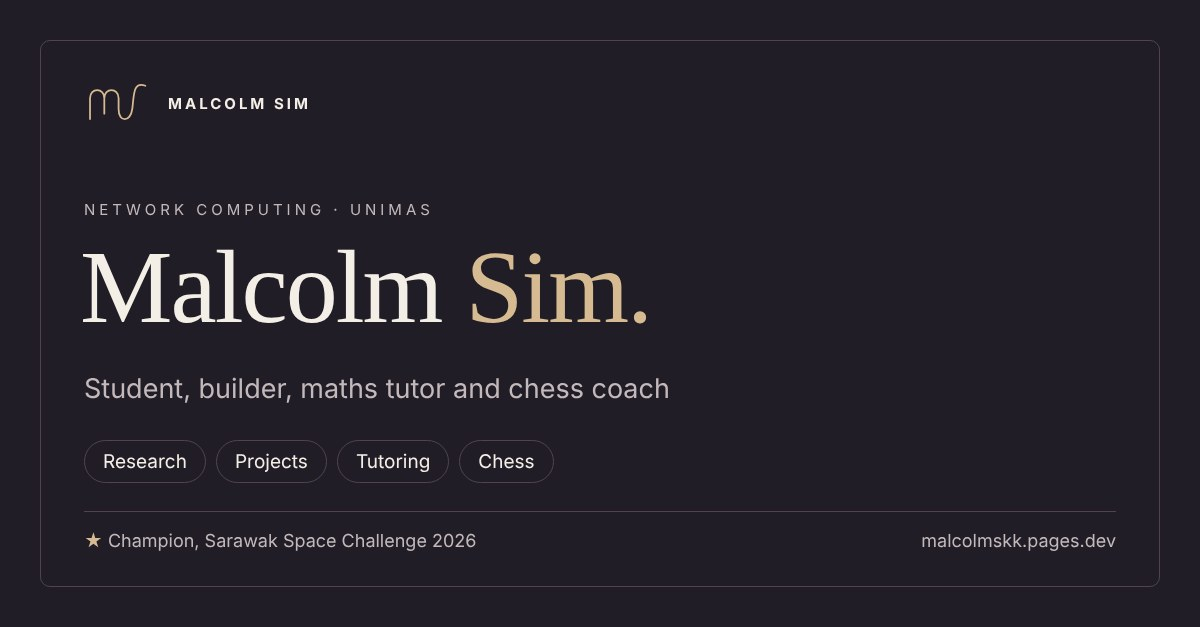
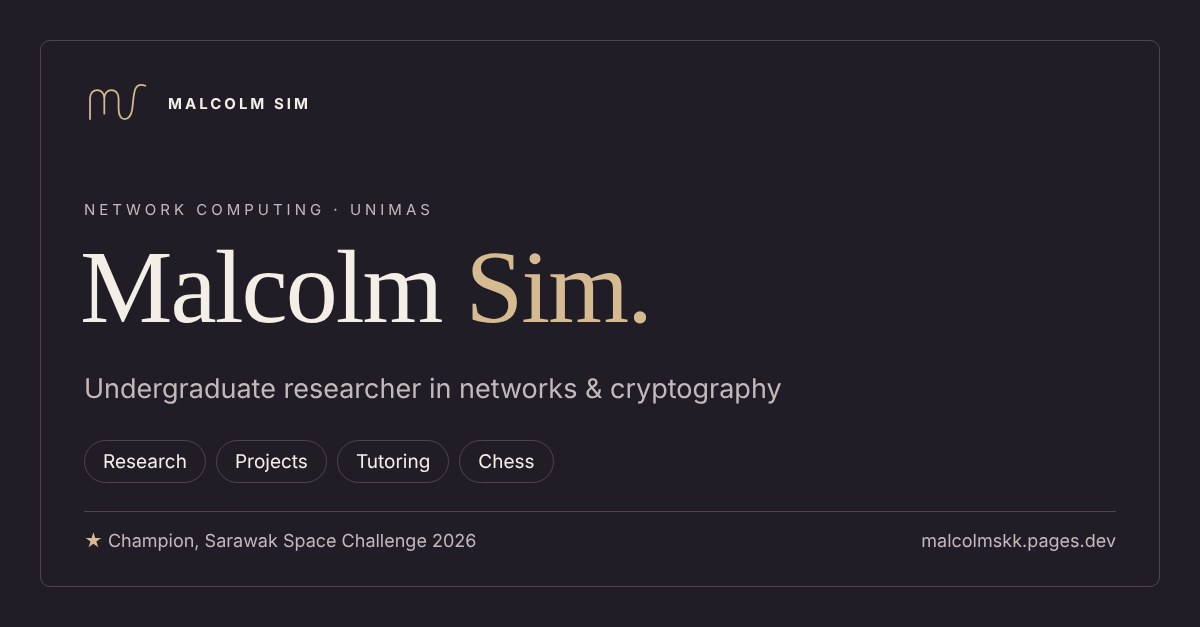
Lead the homepage and link preview with research
Claude-Session: https://claude.ai/code/session_01GhmkvKUT4ZwRjJgh54pBoB

Changed region(s): [[0.0617, 0.6061, 0.6475, 0.6364]]

diff --git a/index.html b/index.html
@@ -1,30 +1,30 @@
-<!doctype html><html lang="en"><head><meta charset="UTF-8"><meta name="viewport" content="width=device-width,initial-scale=1"><meta name="color-scheme" content="light dark"><script src="theme.js"></script><link rel="icon" href="malcolm-logo.svg?v=silk-champagne" type="image/svg+xml"><title>Malcolm Sim — Network Computing, mathematics &amp; chess</title><meta name="description" content="Malcolm Sim, Network Computing student at UNIMAS. Research interests in networks and cryptography, hackathon projects, maths tutoring and chess coaching.">
+<!doctype html><html lang="en"><head><meta charset="UTF-8"><meta name="viewport" content="width=device-width,initial-scale=1"><meta name="color-scheme" content="light dark"><script src="theme.js"></script><link rel="icon" href="malcolm-logo.svg?v=silk-champagne" type="image/svg+xml"><title>Malcolm Sim — Network Computing research, projects &amp; teaching</title><meta name="description" content="Malcolm Sim, Network Computing student and undergraduate researcher at UNIMAS. Research interests in wireless networks and cryptography, hackathon projects, maths tutoring and chess coaching.">
   <link rel="canonical" href="https://malcolmskk.pages.dev/">
   <meta property="og:type" content="website">
   <meta property="og:site_name" content="Malcolm Sim">
-  <meta property="og:title" content="Malcolm Sim | Network Computing student, builder, maths tutor &amp; chess coach">
-  <meta property="og:description" content="Network Computing student at UNIMAS. Hackathon projects, research interests in networks and cryptography, maths tutoring and chess coaching.">
+  <meta property="og:title" content="Malcolm Sim | Undergraduate researcher in networks &amp; cryptography, UNIMAS">
+  <meta property="og:description" content="Network Computing student and undergraduate researcher at UNIMAS. Research in wireless networks and cryptography, hackathon projects, maths tutoring and chess coaching.">
   <meta property="og:url" content="https://malcolmskk.pages.dev/">
   <meta property="og:image" content="https://malcolmskk.pages.dev/images/og-preview.jpg">
   <meta property="og:image:width" content="1200">
   <meta property="og:image:height" content="627">
-  <meta property="og:image:alt" content="Malcolm Sim, Network Computing student at UNIMAS: research, projects, tutoring and chess">
+  <meta property="og:image:alt" content="Malcolm Sim, undergraduate researcher in networks and cryptography at UNIMAS">
   <meta name="twitter:card" content="summary_large_image"><link rel="stylesheet" href="style.css?v=home-about"></head><body><a class="skip-link" href="#main-content">Skip to content</a><header><a class="brand identity" href="index.html" aria-label="Malcolm Sim home"><svg class="monogram" viewBox="0 0 114 84" fill="none" stroke="currentColor" aria-hidden="true"><path d="M10 69V34C10 16 34 16 34 34V60M34 34C34 16 58 16 58 34V52C58 75 78 75 81 52C84 29 82 5 103 13" stroke-width="3" stroke-linecap="round" stroke-linejoin="round"/></svg><span class="wordmark">MALCOLM SIM<small>Research · Projects · Tutoring · Chess</small></span></a><nav class="site-nav" aria-label="Main navigation"><a href="index.html" aria-current="page">Home</a><a href="about.html">About</a><a href="research.html">Research</a><a href="projects.html">Projects</a><a href="services.html">Services</a><a href="contact.html">Contact</a></nav><div class="theme-picker"><label for="theme-choice">Appearance</label><select id="theme-choice" aria-label="Color theme"><option value="system" selected>Device</option><option value="light">Light</option><option value="dark">Dark</option></select></div></header><main id="main-content">
 <section class="personal-opening" aria-labelledby="home-title">
   <div class="opening-copy">
-    <p class="opening-kicker">Student · tutor · chess coach</p>
+    <p class="opening-kicker">Undergraduate researcher · Network Computing, UNIMAS</p>
     <h1 id="home-title">Hi, I'm<br><em>Malcolm Sim.</em></h1>
-    <p class="opening-lead">I'm a Network Computing student at UNIMAS. I'm into networks and cryptography, I've started joining hackathons, and on the side I teach maths and coach chess.</p>
+    <p class="opening-lead">I'm a Network Computing student and undergraduate researcher at UNIMAS. My research interests are wireless networks and cryptography, from traditional to post-quantum. Alongside that, I build projects at hackathons and teach maths and chess.</p>
     <div class="actions">
-      <a class="button primary" href="projects.html">See my projects →</a>
-      <a class="button" href="enquiry.html">Ask about lessons →</a>
+      <a class="button primary" href="research.html">My research →</a>
+      <a class="button" href="projects.html">See my projects →</a>
     </div>
   </div>
   <aside class="desk-notes" aria-label="A few things about me">
     <p class="note-title">A few things about me</p>
     <dl>
+      <div><dt>Research</dt><dd>Wireless networks, traditional and post-quantum cryptography</dd></div>
       <div><dt>Studying</dt><dd>Network Computing at UNIMAS</dd></div>
-      <div><dt>Into</dt><dd>Wireless networks and cryptography</dd></div>
       <div><dt>Building</dt><dd>AI projects, mostly at hackathons</dd></div>
       <div><dt>Teaching</dt><dd>Maths and chess, in English or Chinese</dd></div>
     </dl>
